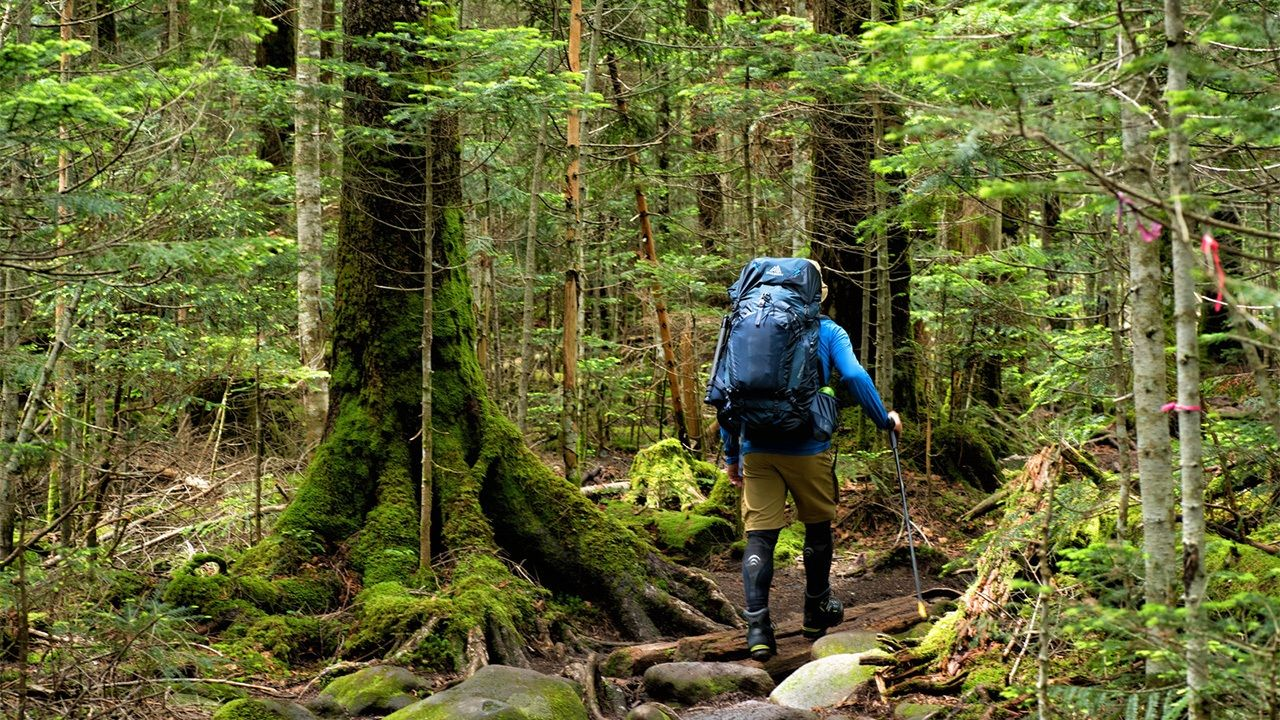
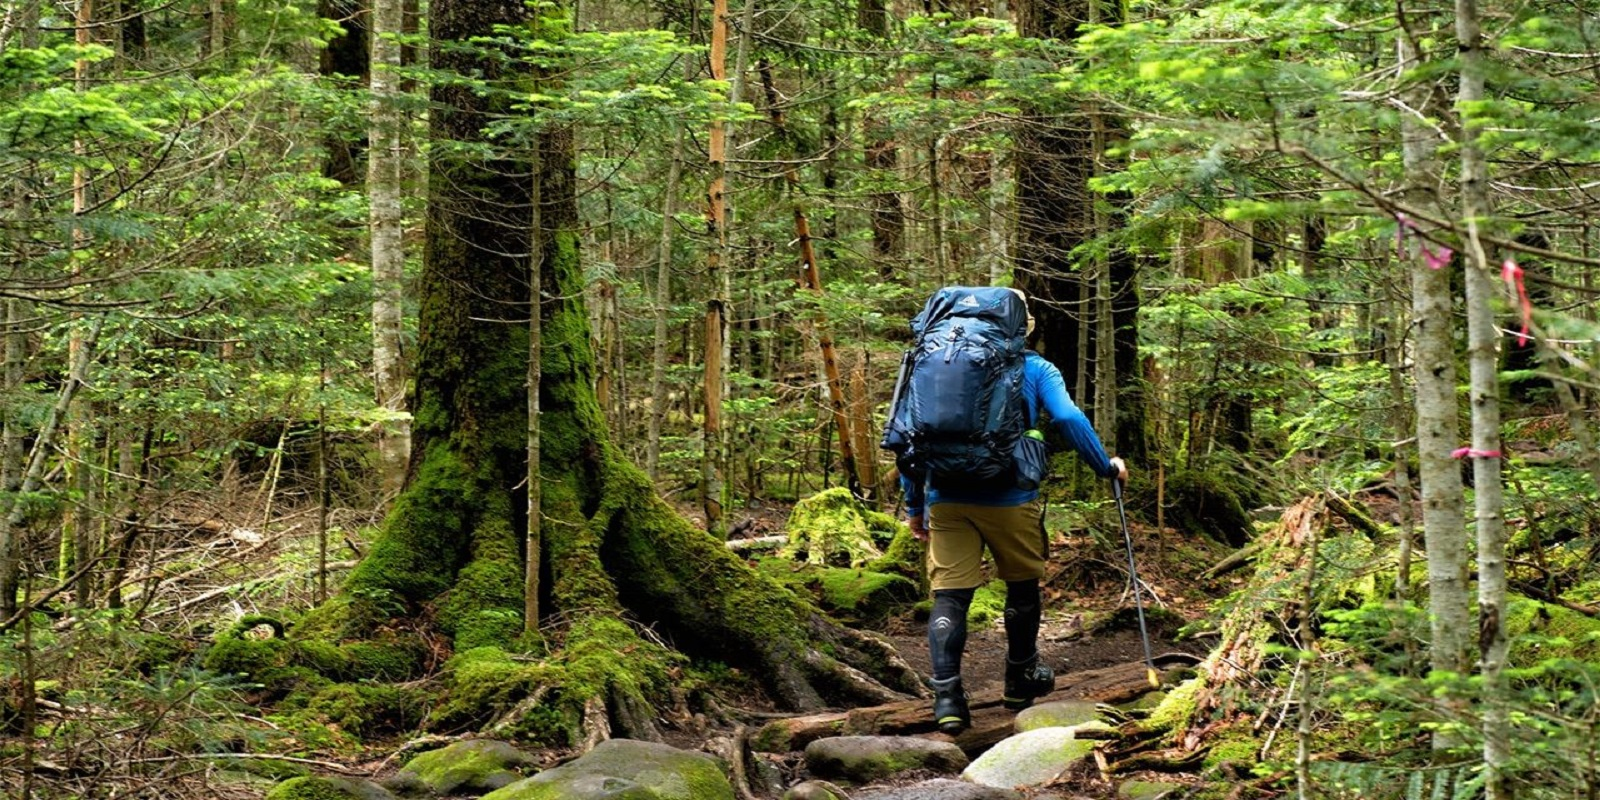
Cambio imágenes y resolución.
Cambio de resolución en las imágenes del banner.
Cambio de tamaño en las imágenes del banner.
Ajustado para que las transiciones queden correctas.

diff --git a/src/public/css/styles.css b/src/public/css/styles.css
@@ -1,6 +1,7 @@
 * {
   font-family: Copperplate, Papyrus, fantasy;
 }
+
 /*Header*/
 header {
   background-color: grey;
@@ -15,10 +16,12 @@ header {
   border: none;
   background-color: transparent;
 }
+
 .boton-header i:hover,
 .boton-header span:hover {
   color: white;
 }
+
 .boton-header span {
   font-size: 14px;
   display: block;
@@ -31,10 +34,13 @@ i {
 }
 
 .logo {
-  width: 150px;
+  display: block;
+  width: 250px;
   height: 100px;
-  padding: 6px;
+  margin: left;
+  margin-top: 1.8vh;
 }
+
 .home {
   padding: 40px;
 }
@@ -43,7 +49,13 @@ h1,
 h4 {
   text-align: center;
 }
+
 /*Productos Destacados*/
+
+.productos-destacados {
+  padding-top: 4vh;
+}
+
 article {
   position: relative;
   background-color: white;
@@ -56,6 +68,7 @@ article {
   transition: all 400ms;
 
 }
+
 article:hover {
   -webkit-box-shadow: 0px 2px 5px 8px rgba(143, 141, 143, 1);
   -moz-box-shadow: 0px 2px 5px 8px rgba(143, 141, 143, 1);
@@ -63,6 +76,7 @@ article:hover {
   transform: scale(1.2);
   z-index: 10;
 }
+
 .caja-producto {
   display: flex;
   border-radius: 5px;
@@ -70,28 +84,35 @@ article:hover {
   width: 500px;
   padding: 8px;
 }
+
 .caja-producto img {
   margin-top: 40px;
   width: 150px;
   height: 150px;
 }
+
 .caja-producto p {
   text-align: justify;
 }
+
 .caja-producto h3 {
   text-align: center;
 }
+
 .productos {
   display: flex;
   flex-wrap: wrap;
   justify-content: center;
 }
-.productos > article {
+
+.productos>article {
   margin: 20px;
 }
+
 .descripcion-producto {
   margin: 5px;
 }
+
 #informacion {
   color: red;
   visibility: hidden;
@@ -101,6 +122,7 @@ article:hover #informacion {
   visibility: visible;
   cursor: pointer;
 }
+
 #icono-heart {
   position: absolute;
   top: 8px;
@@ -108,9 +130,11 @@ article:hover #informacion {
   color: grey;
   visibility: hidden;
 }
+
 article:hover #icono-heart {
   visibility: visible;
 }
+
 #icono-heart:hover {
   color: red;
 }
@@ -120,8 +144,9 @@ article:hover #icono-heart {
 .banner {
   display: flex;
   background: yellow;
-  height: 400px;
+  height: 800px;
 }
+
 .banner-item {
   flex: 1;
   color: #fff;
@@ -132,44 +157,53 @@ article:hover #icono-heart {
   align-items: center;
   transition: flex-grow 500ms;
 }
+
 .banner-item:hover {
   flex-grow: 8;
 }
+
 .banner-item:hover .banner-title {
   transform: rotate(0);
 }
+
 .banner-item:nth-child(1) {
-  background-image: url(../images/banner1.jpg);
+  background-image: url(../images/banner1-2.jpg);
   background-repeat: no-repeat;
   background-position: center 10%;
 }
+
 .banner-item:nth-child(2) {
   background-image: url(../images/banner2.webp);
   background-repeat: no-repeat;
   background-position: center center;
 }
+
 .banner-item:nth-child(3) {
   background-image: url(../images/banner3.jpg);
   background-repeat: no-repeat;
   background-position: center;
 }
+
 .banner-item:nth-child(4) {
   background-image: url(../images/banner4.jpg);
   background-repeat: no-repeat;
   background-position: center;
 }
+
 .banner-title {
   margin: 0;
   transform: rotate(-90deg);
   transition: transform 0.2s 0.2s;
   font-size: 35px;
 }
+
 /*footer*/
 footer {
   padding: 20px;
   text-align: center;
   font-weight: bolder;
 }
+
 /*Redes Sociales*/
 #redesSociales {
   position: relative;
@@ -179,6 +213,7 @@ footer {
   border: 5px solid #fff;
   background: url(https://4.bp.blogspot.com/-gKMIOgeaEBY/UWHsOA382oI/AAAAAAAABpI/5GdyRTAeKII/s1600/share_core_square.jpg);
 }
+
 .red {
   position: absolute;
   -webkit-transition: left 0.5s cubic-bezier(0.1, 0.8, 0.9, 1), opacity 1s linear;
@@ -194,6 +229,7 @@ footer {
   background: no-repeat;
   left: 0px;
 }
+
 #redesSociales:hover .red {
   opacity: 1;
   transform: translate(0px, 0);
@@ -203,6 +239,7 @@ footer {
   margin: 10px 0px 0px 20px;
   position: absolute;
 }
+
 #redesSociales:hover .red:nth-child(1) {
   position: absolute;
   left: 35px;
@@ -212,10 +249,12 @@ footer {
   position: absolute;
   left: 80px;
 }
+
 #redesSociales:hover .red:nth-child(3) {
   position: absolute;
   left: 125px;
 }
+
 #redesSociales:hover .red:nth-child(4) {
   position: absolute;
   left: 170px;
@@ -224,15 +263,19 @@ footer {
 .red.facebook {
   background: url(https://4.bp.blogspot.com/-49s_0_9mdVo/UWHsMIvJBNI/AAAAAAAABn8/6bVMlN4Qz7Y/s1600/bubble_facebook_share_button.png);
 }
+
 .red.twitter {
   background: url(https://2.bp.blogspot.com/-3r8sHe1Qy5M/UWHsNMDDzHI/AAAAAAAABog/q3V7mYirmOY/s1600/bubble_twitter_share_button.png);
 }
+
 .red.email {
   background: url(https://3.bp.blogspot.com/-ZhFqBhp79cA/UWHsMBmPxsI/AAAAAAAABn4/O8k_pGf1oCU/s1600/bubble_email_share_button.png);
 }
+
 .red.instagram {
   background: url(https://1.bp.blogspot.com/-FSkby0cXU_8/UWHsMis8c2I/AAAAAAAABoQ/y8coyc5ystc/s1600/bubble_instagram_share_button.png);
 }
+
 .red:hover {
   background-position: 0 -46px;
 }
@@ -253,15 +296,17 @@ footer {
   flex-wrap: wrap;
 }
 
-.container-card > .card-wrap {
+.container-card>.card-wrap {
   margin-right: 50px;
 }
+
 .card-wrap {
   margin: 10px;
   perspective: 800px;
   width: 293px;
   height: 472px;
 }
+
 .card-wrap:hover .card-slide {
   transform: rotateY(180deg);
 }
@@ -271,11 +316,13 @@ footer {
   background-size: cover;
   background-position: center;
 }
+
 .card2 {
   background-image: url("../images/tarjeta3.jpg");
   background-size: cover;
   background-position: center;
 }
+
 .card3 {
   background-image: url("../images/tarjeta2.jpg");
   background-size: cover;
@@ -322,6 +369,7 @@ footer {
   width: 296px;
   box-shadow: 0 5px 10px rgba(0, 0, 0, 0.1);
 }
+
 .card .card-content {
   display: flex;
   flex-direction: column;
@@ -339,6 +387,7 @@ section .card .image {
   background: #fff;
   box-shadow: 0px -1px 4px 2px rgba(0, 0, 0, 0.25);
 }
+
 section .card .image img {
   height: 100%;
   width: 100%;
@@ -346,24 +395,29 @@ section .card .image img {
   border-radius: 50%;
   border: 3px solid #fff;
 }
+
 .box {
   position: absolute;
   width: 100%;
   height: 30%;
   background: linear-gradient(106.32deg, #f3a60f 14.23%, rgba(255, 25, 25, 0) 139.97%);
 }
+
 .rating {
   display: flex;
   align-items: center;
   margin-top: 18px;
 }
+
 .rating i {
   font-size: 18px;
   margin: 0 2px;
 }
+
 .rating i:hover {
   color: orange;
 }
+
 section .card .about {
   display: flex;
   text-align: center;
